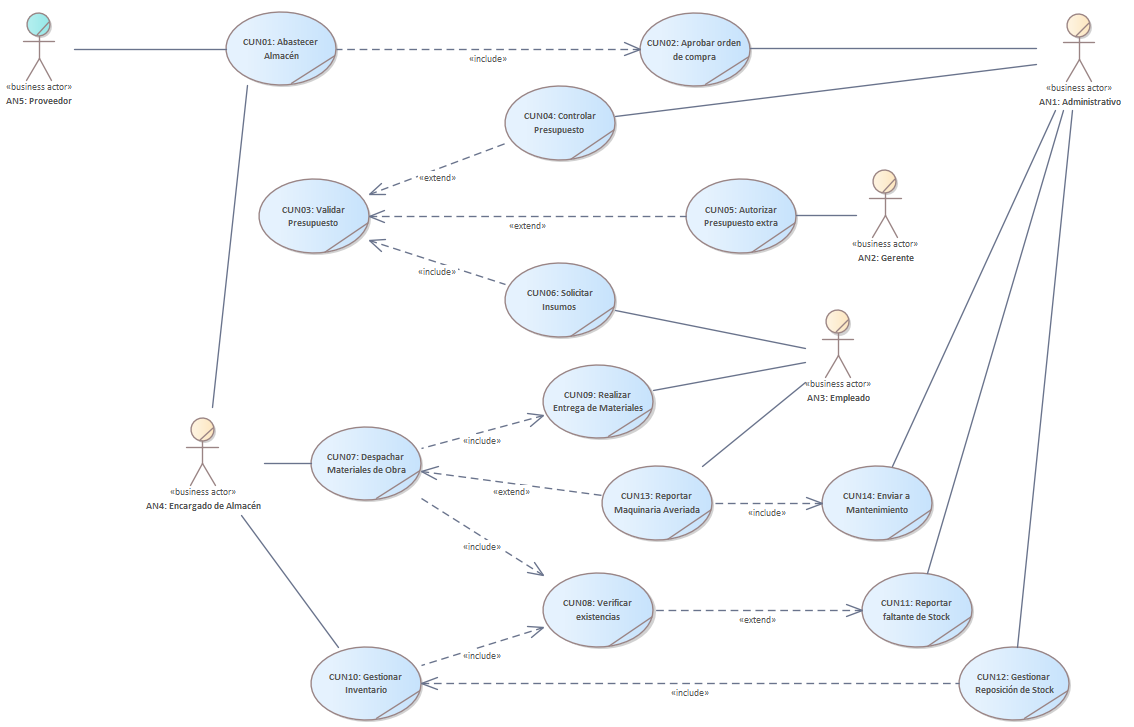
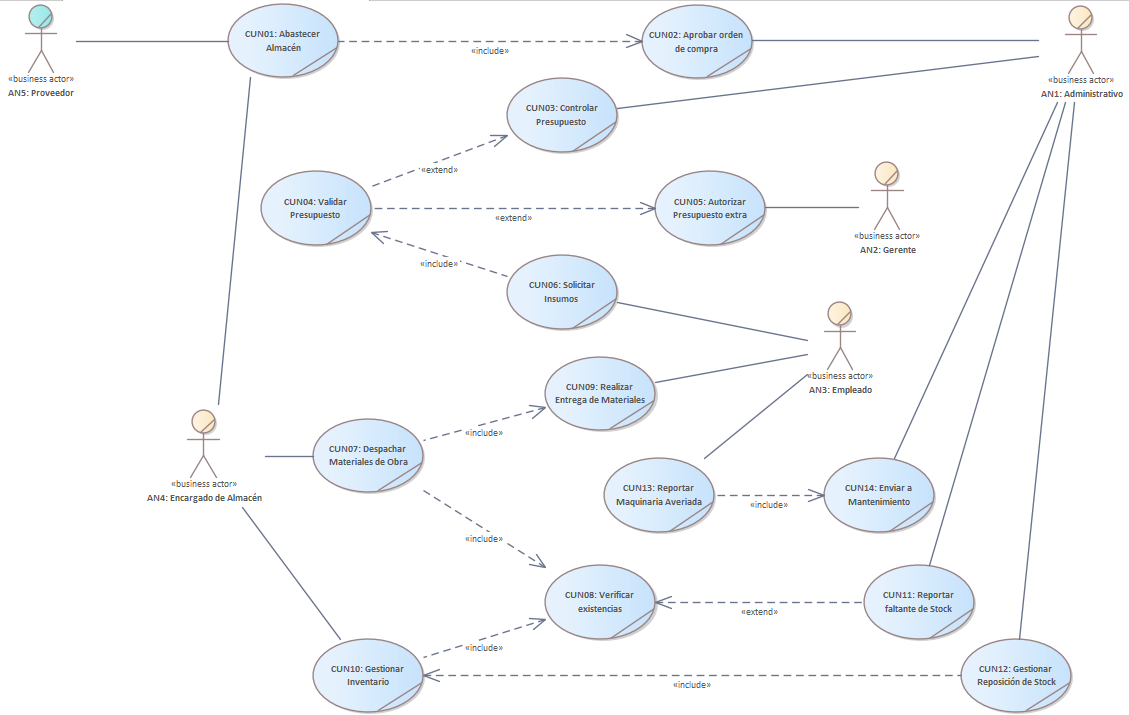
Arreglo

diff --git a/casos-uso.html b/casos-uso.html
@@ -801,8 +801,8 @@
                                     <p><strong>Explicación en el Diagrama:</strong> Este objetivo regula la inversión de capital en insumos para evitar compras desmedidas o desvíos de fondos en las sucursales:</p>
                     <ul>
                         <li>El proceso base <span style="color: #E63946"><strong>CUN1: Abastecer Almacén</strong></span> requiere obligatoriamente (<code>&lt;&lt;include&gt;&gt;</code>) pasar por la aprobación formal del actor de negocio <span style="color: #2A4158"><strong>AN1: Administrativo</strong></span> en <span style="color: #E63946"><strong>CUN2: Aprobar orden de compra</strong></span>, flujo que finalmente interactúa con el actor externo <span style="color: #2A4158"><strong>AN5: Proveedor</strong></span> para el despacho físico de los materiales.</li>
-                        <li>Para asegurar la salud financiera de la constructora, se incluye de manera mandatoria (<code>&lt;&lt;include&gt;&gt;</code>) el proceso <span style="color: #E63946"><strong>CUN4: Controlar Presupuesto</strong></span>.</li>
-                        <li>Ante cualquier anomalía o reajuste de costos en los frentes de obra, el flujo se extiende (<code>&lt;&lt;extend&gt;&gt;</code>) condicionalmente hacia <span style="color: #E63946"><strong>CUN3: Validar Presupuesto</strong></span>, subproceso que depende directamente de que el actor de negocio <span style="color: #2A4158"><strong>AN2: Gerente</strong></span> ejecute la acción de <span style="color: #E63946"><strong>CUN5: Autorizar Presupuesto extra</strong></span>.</li>
+                        <li>Para asegurar la salud financiera de la constructora, el <span style="color: #2A4158"><strong>AN1: Administrativo</strong></span> se encarga de el proceso <span style="color: #E63946"><strong>CUN3: Controlar Presupuesto</strong></span>.</li>
+                        <li>Ante cualquier anomalía o reajuste de costos en los frentes de obra, el flujo se extiende (<code>&lt;&lt;extend&gt;&gt;</code>) condicionalmente hacia <span style="color: #E63946"><strong>CUN4: Validar Presupuesto</strong></span>, subproceso que depende directamente de que el actor de negocio <span style="color: #2A4158"><strong>AN2: Gerente</strong></span> ejecute la acción de <span style="color: #E63946"><strong>CUN5: Autorizar Presupuesto extra</strong></span>.</li>
                     </ul>
                                 </div>
                             </div>
@@ -835,8 +835,8 @@
                                 <div class="accordion-body">
                                     <p><strong>Explicación en el Diagrama:</strong> Este objetivo actúa como la capa de seguridad operativa e inventario real del proyecto, resolviendo pérdidas por descuido o averías:</p>
                                     <ul>
-                                        <li>El proceso de auditoría continua <span style="color: #E63946"><strong>CUN10: Gestionar Inventario</strong></span> fuerza la ejecución de <span style="color: #E63946"><strong>CUN8: Verificar existencias</strong></span>. Si se detecta un desfase físico o lógico, se dispara una extensión (<code>&lt;&lt;extend&gt;&gt;</code>) para <span style="color: #E63946"><strong>CUN11: Reportar faltante de Stock</strong></span> y coordinar la compra oportuna mediante <span style="color: #E63946"><strong>CUN12: Gestionar Reposición de Stock<</strong>/span>.</li>
-                                        <li>Regla de Negocio para Maquinaria: Cuando el actor <span style="color: #2A4158"><strong>AN3: Empleado</strong></span> detecta un desperfecto físico, el proceso <span style="color: #E63946"><strong>CUN13: Reportar Maquinaria Averiada</strong></span> extiende condicionalmente (<code>&lt;&lt;extend&gt;&gt;</code>) el flujo ordinario de entrega, forzando la inclusión obligatoria (<code>&lt;&lt;include&gt;&gt;</code>) de la acción <span style="color: #E63946"><strong>CUN14: Enviar a Mantenimiento</strong></span> para bloquear su uso.</li>
+                                        <li>El proceso de auditoría continua <span style="color: #E63946"><strong>CUN10: Gestionar Inventario</strong></span> fuerza la ejecución de <span style="color: #E63946"><strong>CUN8: Verificar existencias</strong></span>. Si se detecta un desfase físico o lógico, se dispara una extensión (<code>&lt;&lt;extend&gt;&gt;</code>) para <span style="color: #E63946"><strong>CUN11: Reportar faltante de Stock</strong></span> y coordinar la compra oportuna mediante <span style="color: #E63946"><strong>CUN12: Gestionar Reposición de Stock</strong></span>.</li>
+                                        <li>Regla de Negocio para Maquinaria: Cuando el actor <span style="color: #2A4158"><strong>AN3: Empleado</strong></span> detecta un desperfecto físico, el proceso <span style="color: #E63946"><strong>CUN13: Reportar Maquinaria Averiada</strong></span> forzando la inclusión obligatoria (<code>&lt;&lt;include&gt;&gt;</code>) de la acción <span style="color: #E63946"><strong>CUN14: Enviar a Mantenimiento</strong></span> para bloquear su uso.</li>
                                     </ul>
                                 </div>
                             </div>